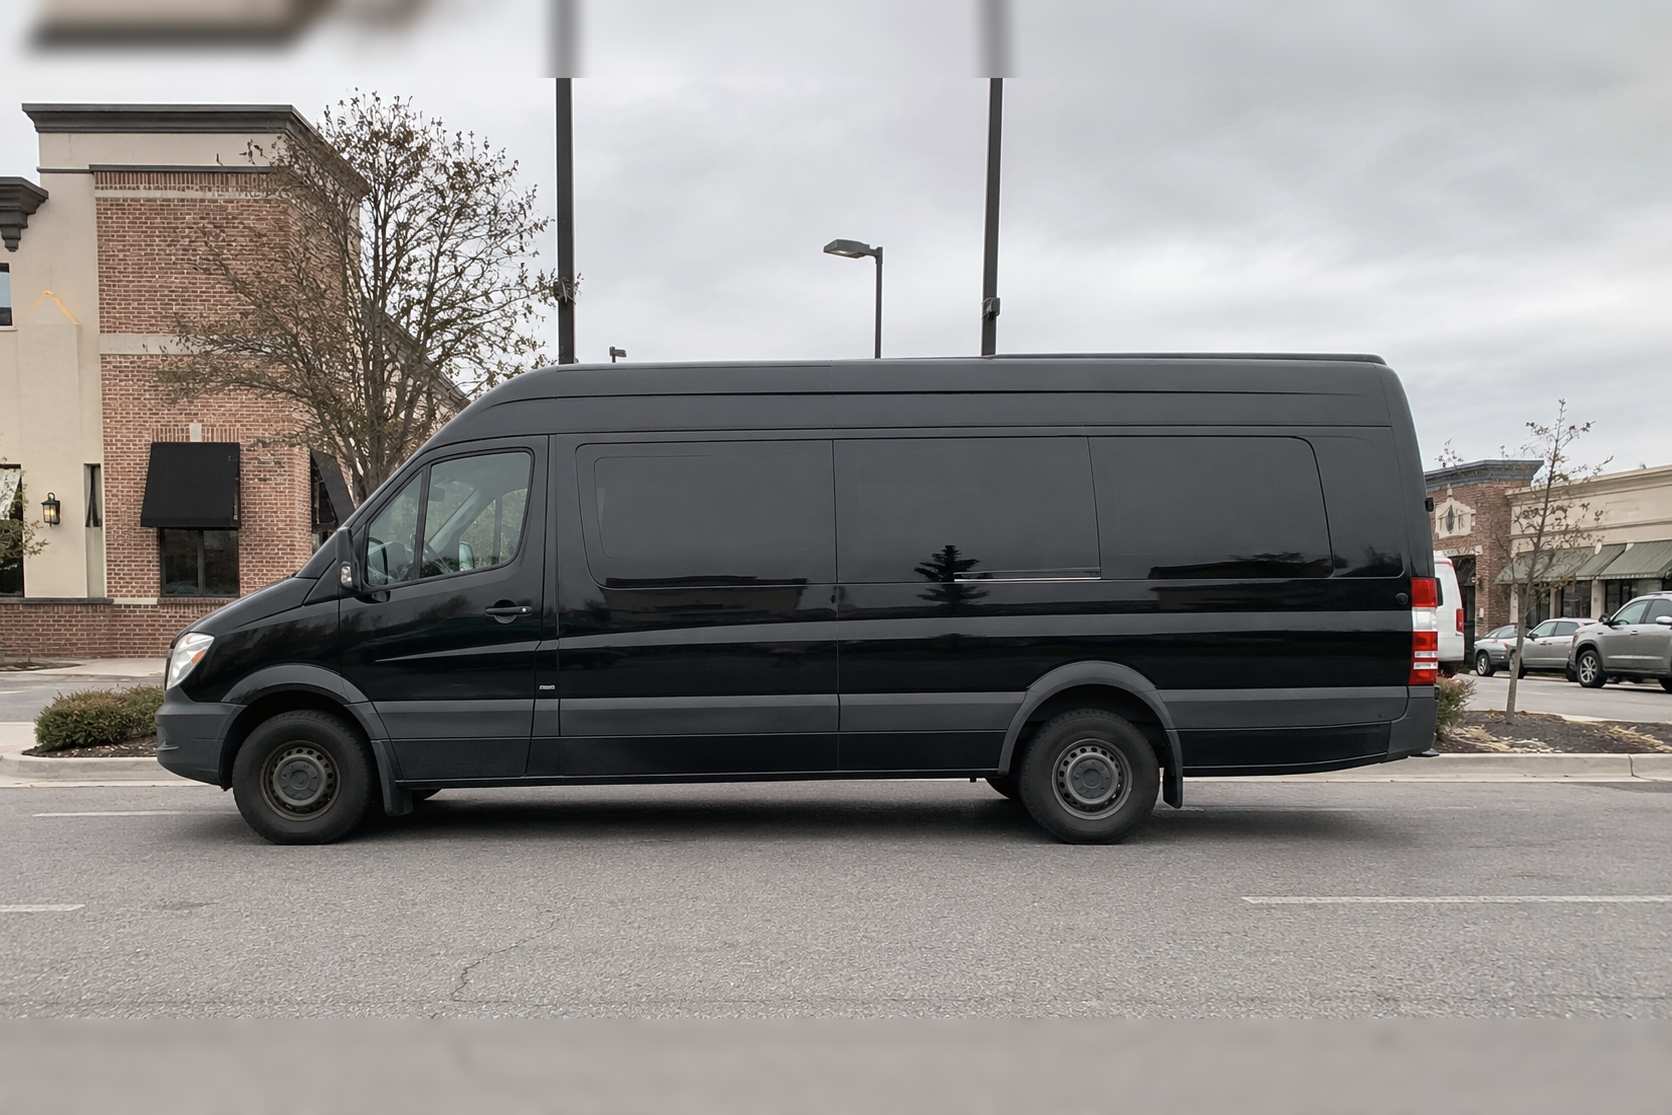
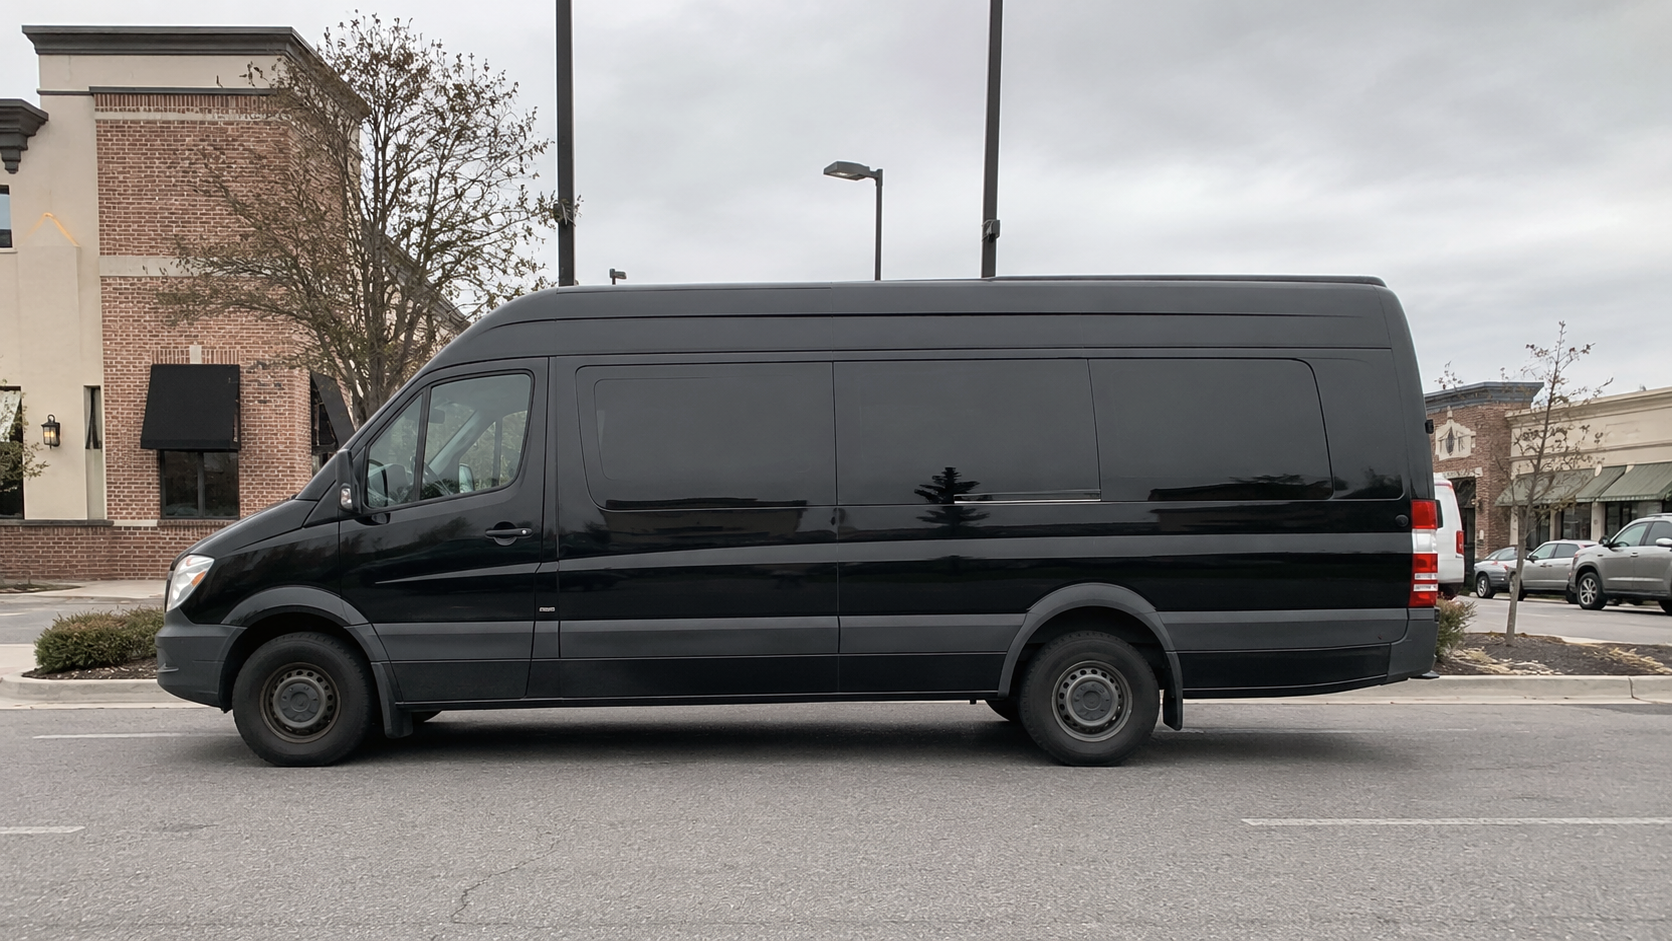
update images

diff --git a/src/components/site/fleet-gallery.tsx b/src/components/site/fleet-gallery.tsx
@@ -8,7 +8,7 @@ import type { FleetImage } from "@/data/fleet"
 import { Button } from "@/components/ui/button"
 import { cn } from "@/lib/utils"
 
-const frameClass = "aspect-3/2 w-full object-cover"
+const frameClass = "aspect-2/1 w-full object-cover"
 
 function FleetGallery({
   images,
@@ -50,8 +50,8 @@ function FleetGallery({
       <Image
         src={images[0].src}
         alt={images[0].alt}
-        width={1602}
-        height={982}
+        width={1600}
+        height={800}
         priority
         sizes="(min-width: 1200px) 1200px, 100vw"
         className={cn(frameClass, "rounded-xl ring-1 ring-foreground/10")}
@@ -77,8 +77,8 @@ function FleetGallery({
               key={image.src}
               src={image.src}
               alt={image.alt}
-              width={1602}
-              height={982}
+              width={1600}
+              height={800}
               priority={position === 0}
               sizes="(min-width: 1200px) 1200px, 100vw"
               className={cn(frameClass, "shrink-0 snap-center")}
@@ -133,9 +133,9 @@ function FleetGallery({
                 src={image.src}
                 alt=""
                 width={320}
-                height={214}
+                height={160}
                 sizes="160px"
-                className="aspect-3/2 w-20 object-cover sm:w-28"
+                className="aspect-2/1 w-20 object-cover sm:w-28"
               />
             </button>
           </li>

diff --git a/src/components/site/fleet-card.tsx b/src/components/site/fleet-card.tsx
@@ -18,10 +18,10 @@ function FleetCard({ category }: { category: FleetCategory }) {
       <Image
         src={category.images.exterior.src}
         alt={category.images.exterior.alt}
-        width={1602}
-        height={982}
+        width={1600}
+        height={800}
         sizes="(min-width: 1024px) 33vw, (min-width: 640px) 50vw, 100vw"
-        className="aspect-3/2 w-full object-cover"
+        className="aspect-2/1 w-full object-cover"
       />
       <CardHeader>
         <CardTitle>{category.name}</CardTitle>

diff --git a/src/app/about/page.tsx b/src/app/about/page.tsx
@@ -64,7 +64,7 @@ export default function AboutPage() {
               width={1774}
               height={887}
               sizes="(min-width: 1024px) 50vw, 100vw"
-              className="aspect-3/2 w-full rounded-xl object-cover ring-1 ring-foreground/10"
+              className="aspect-2/1 w-full rounded-xl object-cover ring-1 ring-foreground/10"
             />
           </div>
         </Container>

diff --git a/CLAUDE.md b/CLAUDE.md
@@ -143,6 +143,19 @@ A photo backdrop **breaks the design system's "bronze on navy is 5.3:1" guarante
 
 `npm run fleet-photos` (`scripts/grade-fleet-photos.mjs`). **`assets/fleet-source/` holds the pristine owner originals; `public/fleet/` is generated** — never edit `public/fleet/` by hand, and never grade in place (re-running would compound the correction). Paths and filenames are unchanged, so `data/fleet.ts`, `seo.ts`, `jsonld.tsx` and the 14 blog image refs needed no edits.
 - Exteriors are graded; **interiors are byte-copied**. The party bus interior is deliberately purple and the cabins deliberately dim — neutralising them would erase the product. Byte-identical copies also mean git dedupes them, so only the 9 graded exteriors cost new blobs.
+
+### No padding — the card box is 2:1 (settled 6 Aug 2026, owner rejected three pad attempts)
+Sources run **1.5:1 to 2:1** (`motor-coach` 1774×887 is the widest; `coach-bus`/`party-bus`/`sprinter-van` are 1672×941). The old 3:2 card box could not hold a 2:1 photo, and every attempt to synthesise the missing height failed on sight:
+1. mirrored sky on top → trees, lamp posts and buildings smeared across the top of every card;
+2. mirrored pavement on the bottom → pavement markings and vignette reflected back as a dark band;
+3. a 40px bottom sliver stretched and blurred → still an obvious blurred quarter.
+**The fix is geometric, not cosmetic: `padToCardAspect` is deleted and the card box is `aspect-2/1`.** 2:1 is the widest source, so object-cover only ever trims sky and pavement — **no vehicle can lose its front or rear at any breakpoint**. Interiors (down to 1.33) lose up to 33% of their height; verified per-image that cabins, seats and dashboards all survive. Do not reintroduce padding, and do not narrow the box below 2:1 — 16:9 crops 11% off the motor coach's width, which clips the bus.
+- The box lives in three places that must move together: `fleet-card.tsx`, `frameClass` + thumbs in `fleet-gallery.tsx`, and the About photo in `app/about/page.tsx`. Their `width`/`height` props are the box ratio (1600×800), not any one file's size.
+- Output dimensions now equal the pristine source exactly, which is the cheap regression test: `public/fleet/*.png` dims must match `assets/fleet-source/*.png`. Any inequality means padding crept back.
+- Blog JSONs store per-image `width`/`height`; removing the pad changed 7 of them (1774×1183→1774×887, 1672×1115→1672×941). Sync from disk and re-run `npm run blog-index`, or cards and OG tags go stale.
+
+### The dev-server image cache will lie to you
+**`next dev` serves stale optimized images from an in-memory cache that survives both deleting `.next/cache/images` and a normal server restart.** After regenerating fleet photos the server kept returning the old geometry with `X-Nextjs-Cache: HIT` and a byte count identical to the pre-change response — this is what made three rounds of "still blurry" look like a failed fix when the files on disk were already correct. **Verify by aspect ratio, not by eye:** fetch `/_next/image?url=…&w=…` and compare `width/height` against the source file. To actually clear it, stop the server, `rm -rf .next`, then start. A browser hard-refresh does not help, because the stale bytes come from the server.
 - **Grey-world white balance was wrong here and was reverted.** It read the blue sky reflected in the *white* coach as a cast and turned the paint cream, and forcing every photo to a common mean washed out the black vans — a photo of a black vehicle *should* be darker. The shipped grade is per-channel black/white points (0.5/99.5 percentile → 6/249, at 0.6 strength) plus a **midtone-weighted** cast correction (`4t(1-t)`, zero at both ends) and 0.9 saturation. Worst cast 28 → 18, brightness spread 69–128 → 92–120.
 - Ceiling worth knowing: a LUT cannot make a sunny blue-sky shot match a grey overcast one. The residual mismatch is a *content* difference. If it still reads inconsistent, the fix is tighter crops or a reshoot, not more grading.
 - **PNG re-encode is larger than the source** (2.01 MB → 2.44 MB), so output stays PNG at native size. WebP would be ~179 KB (11×) but would change ~35 image paths including blog JSON that `check-blogs.mjs` validates — deferred, not done.
